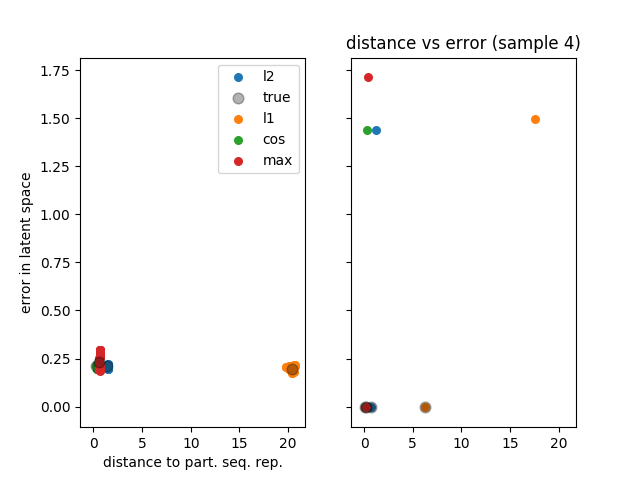
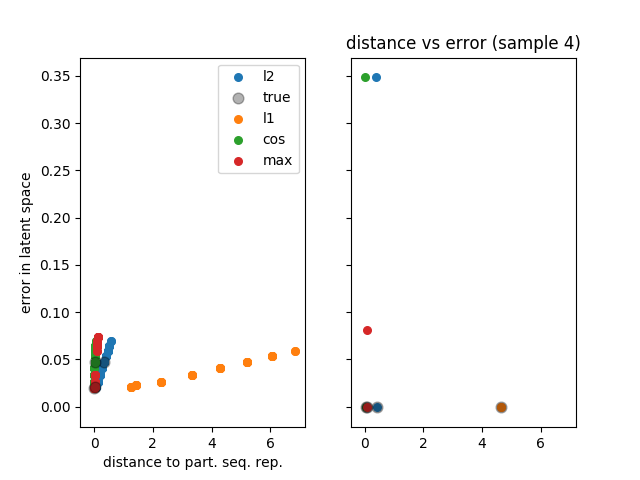
added

diff --git a/RNN/utils/association_evaluation.py b/RNN/utils/association_evaluation.py
@@ -513,8 +513,8 @@ def plot_best_distance_function(model, data, data_iterator, n=50):
 			for k in range(n):
 				errors[k] = metrics.__pose_seq_error(preds[k,:,:-model.label_dim],data[idx[j],:,:-model.label_dim])
 				dists[k] = metrics.__distance__(ls[w_i[k]], z_true, mode=i)
-			axarr[0].scatter(dists, errors, label=dist_name, s=30)
-			if i == 0:
+			axarr[0].scatter(dists, errors, label=dist_name, s=20)
+			if i == N-1:
 				axarr[0].scatter(dists[:1], errors[:1], c='black', alpha='0.3', s=60, label='true')
 			else:
 				axarr[0].scatter(dists[:1], errors[:1], c='black', alpha='0.3', s=60)
@@ -528,16 +528,16 @@ def plot_best_distance_function(model, data, data_iterator, n=50):
 			errors = [metrics.__latent_error(z, z_true) for z in [zs[i], z_true]]
 			dists = [metrics.__distance__(z, z_ref, mode=i) for z in [zs[i], z_true]]
 			axarr[1].scatter([dists], [errors], label=dist_name, s=30)
-			if i == 0:
-				axarr[1].scatter(dists[-1:], errors[-1:], c='black', alpha='0.3', s=60, label='true')
+			if i == N-1:
+				axarr[1].scatter(dists[-1:], errors[-1:], c='black', alpha='0.3', s=20, label='true')
 			else:
 				axarr[1].scatter(dists[-1:], errors[-1:], c='black', alpha='0.3', s=60)
 
-		axarr[0].legend()
-		axarr[0].set_xlabel('distance to part. seq. rep.')
-		axarr[0].set_ylabel('error in latent space')
+		axarr[1].legend()
+		axarr[1].set_xlabel('distance to part. seq. rep.')
+		axarr[1].set_ylabel('error in latent space')
 
-		plt.title('distance vs error (sample %d)'%(j))
+		plt.suptitle('distance vs error (sample %d)'%(j))
 		plt.savefig('../new_out/__plot_best_distance_function_%d.png'%(j))
 		plt.close()
 
